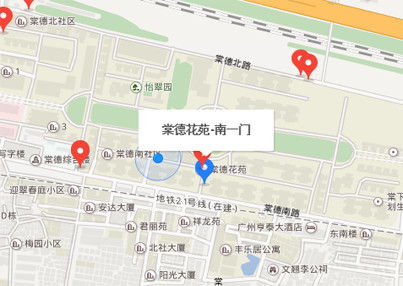
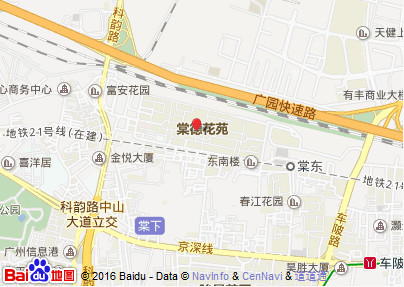
new
new images

diff --git a/index.html b/index.html
@@ -437,7 +437,9 @@
                     </div>
                 </div>
                 <div class="col-md-5 hidden-sm hidden-xs">
-                    <div style="width: 403px; height: 286px; float: right;" id="allmap"></div>
+                    <div style="width: 403px; height: 286px; float: right;">
+                        <img src="images/map.jpg" alt=""/>
+                    </div>
                 </div>
             </div>
         </div>
@@ -484,23 +486,5 @@
     <script src="js/isotope.pkgd.min.js"></script>
     <script src="js/index.js"></script>
     <script src="js/template.js"></script>
-    <!--<script src="bower_components/konva/konva.js"></script>-->
-    <!--<script src="js/canvas.js"></script>-->
-    <script type="text/javascript" src="http://api.map.baidu.com/api?v=2.0&ak=4qXTGvclMqTZXkLsU3twnMA7"></script>
 </body>
 </html>
-<script type="text/javascript">
-        // 百度地图API功能
-        var map = new BMap.Map("allmap");
-        map.centerAndZoom(new BMap.Point(113.389789,23.138787),15);
-        map.enableScrollWheelZoom(true);
-
-        // 用经纬度设置地图中心点
-        (function theLocation(){
-            map.clearOverlays();
-            var new_point = new BMap.Point(113.389789,23.138787);
-            var marker = new BMap.Marker(new_point);  // 创建标注
-            map.addOverlay(marker);              // 将标注添加到地图中
-            map.panTo(new_point);
-        })();
-</script>
